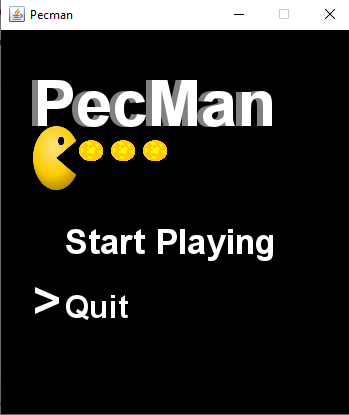
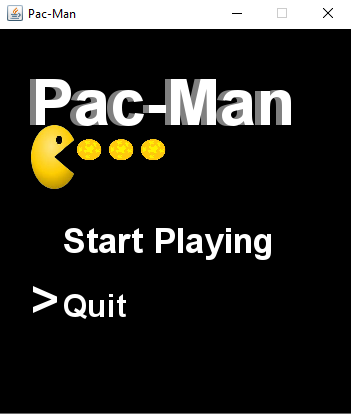
Update README

diff --git a/src/Main/GameState.java b/src/Main/GameState.java
@@ -116,7 +116,7 @@ public class GameState {
 			g2d.fillRect(0,0, 1000, 800);
 			Image img1=new ImageIcon("C:\\Users\\Alaa\\Desktop\\github\\Pac-man\\PacmanNow\\src\\pacman\\imagesnew.png").getImage();
 			Image img2=new ImageIcon("C:\\Users\\Alaa\\Desktop\\github\\Pac-man\\PacmanNow\\src\\pacman\\cheese.png").getImage();
-			 text="PecMan";
+			 text="Pac-Man";
 			g2d.setFont(g2d.getFont().deriveFont(Font.BOLD,2*cellSize));
 			g2d.setPaint(Color.GRAY);
 			g2d.drawString(text, cellSize-6, 3*32);

diff --git a/src/Main/PacMan.java b/src/Main/PacMan.java
@@ -13,7 +13,7 @@ public class PacMan extends JFrame {
     MyPanel mypanel;
 
     PacMan() {
-        this.setTitle("Pecman");
+        this.setTitle("Pac-Man");
         //  setpreferedsize + setlayout(null) don't work  together
         this.setDefaultCloseOperation(this.EXIT_ON_CLOSE);
         this.setResizable(false);

diff --git a/READMe.md b/READMe.md
@@ -1,11 +1,11 @@
 # Pac-Man 🟡👻
 
-Ein einfaches Java-Spiel, das den klassischen Pac-Man nachbildet.  
-Das Spiel wurde mit Java Swing entwickelt.
+A simple Java game that recreates the classic Pac-Man.  
+The game was developed using Java Swing.
 
 ---
 
-## 👻 Gegner im Spiel
+## 👻 Enemies in the Game
 
 <img src="src/pacman/orangeGhost.png" alt="OrangeGhost" width="50" style="margin-right:10px;"/>
 <img src="src/pacman/pinkGhost.png" alt="PinkGhost" width="50" style="margin-right:10px;"/>
@@ -15,26 +15,29 @@ Das Spiel wurde mit Java Swing entwickelt.
 
 ## 🕹 Features
 
-- Spielersteuerung mit der Tastatur:  
-  `W` = oben, `S` = unten, `A` = links, `D` = rechts
-- Punkte sammeln durch das Einsammeln von Pellets
-- Geister mit individuellem Verhalten
-- Spielende bei Kollision mit einem Geist
+- Player controls using the keyboard:  
+  `W` = up, `S` = down, `A` = left, `D` = right  
+- Collect points by eating pellets/cheese  
+- Ghosts with individual behavior  
+- Game over upon collision with a ghost
 
 ---
 
 ## 🎮 Screenshots
 
-### Spielstart
+### Game Start
 <img src="src/pacman/start.png" alt="Startscreen" width="300"/>
 
-### Während des Spiels
+### In-Game
 <img src="src/pacman/playing.png" alt="Gameplay" width="300"/>
 
 ---
 
-## 🚀 Installation & Ausführung
+## 🚀 Installation & Execution
 
-1. Projekt klonen oder herunterladen:
+1. Clone or download the project:
    ```bash
    git clone https://github.com/Amerov1/Pac-Man.git
+   ```
+
+---
